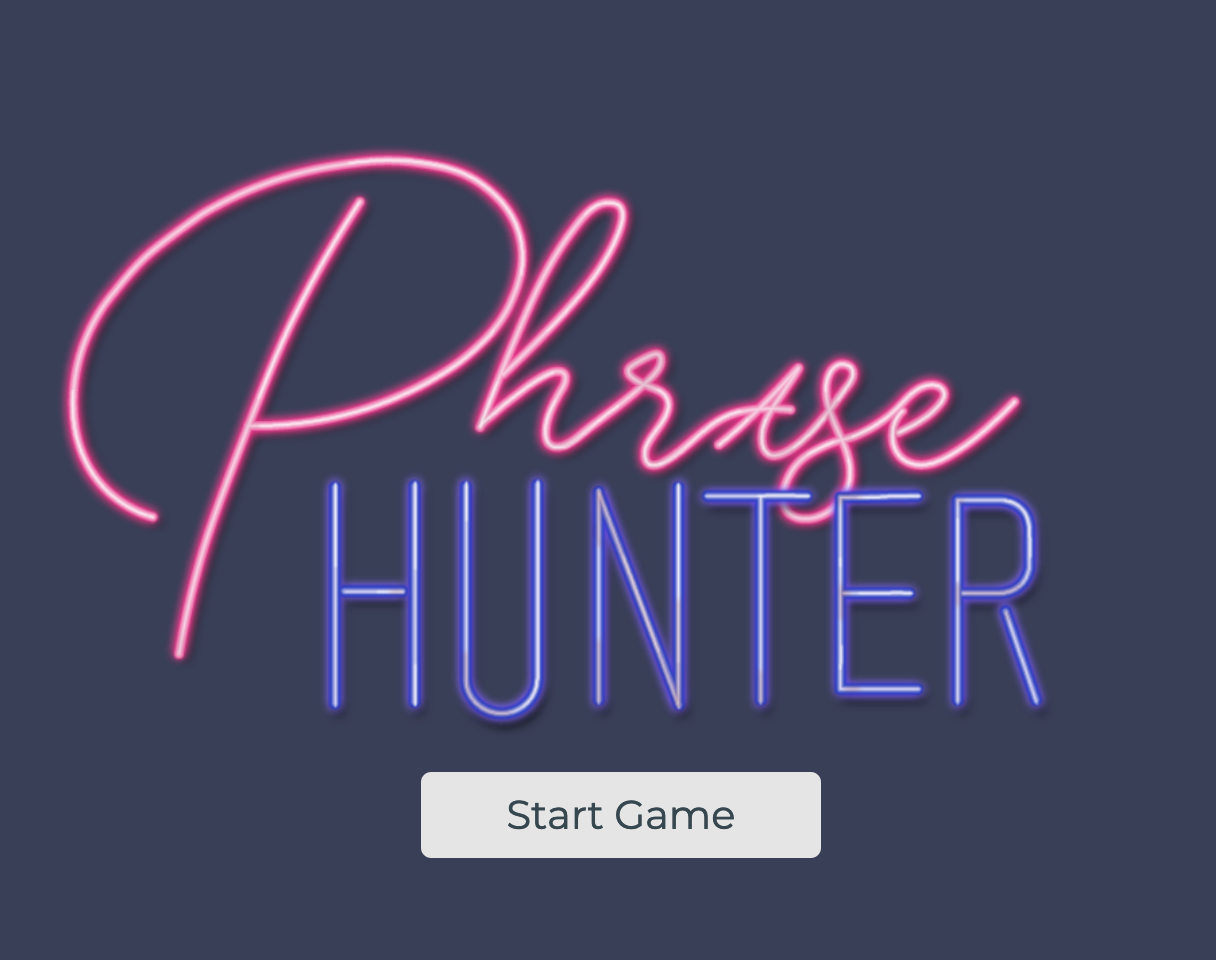
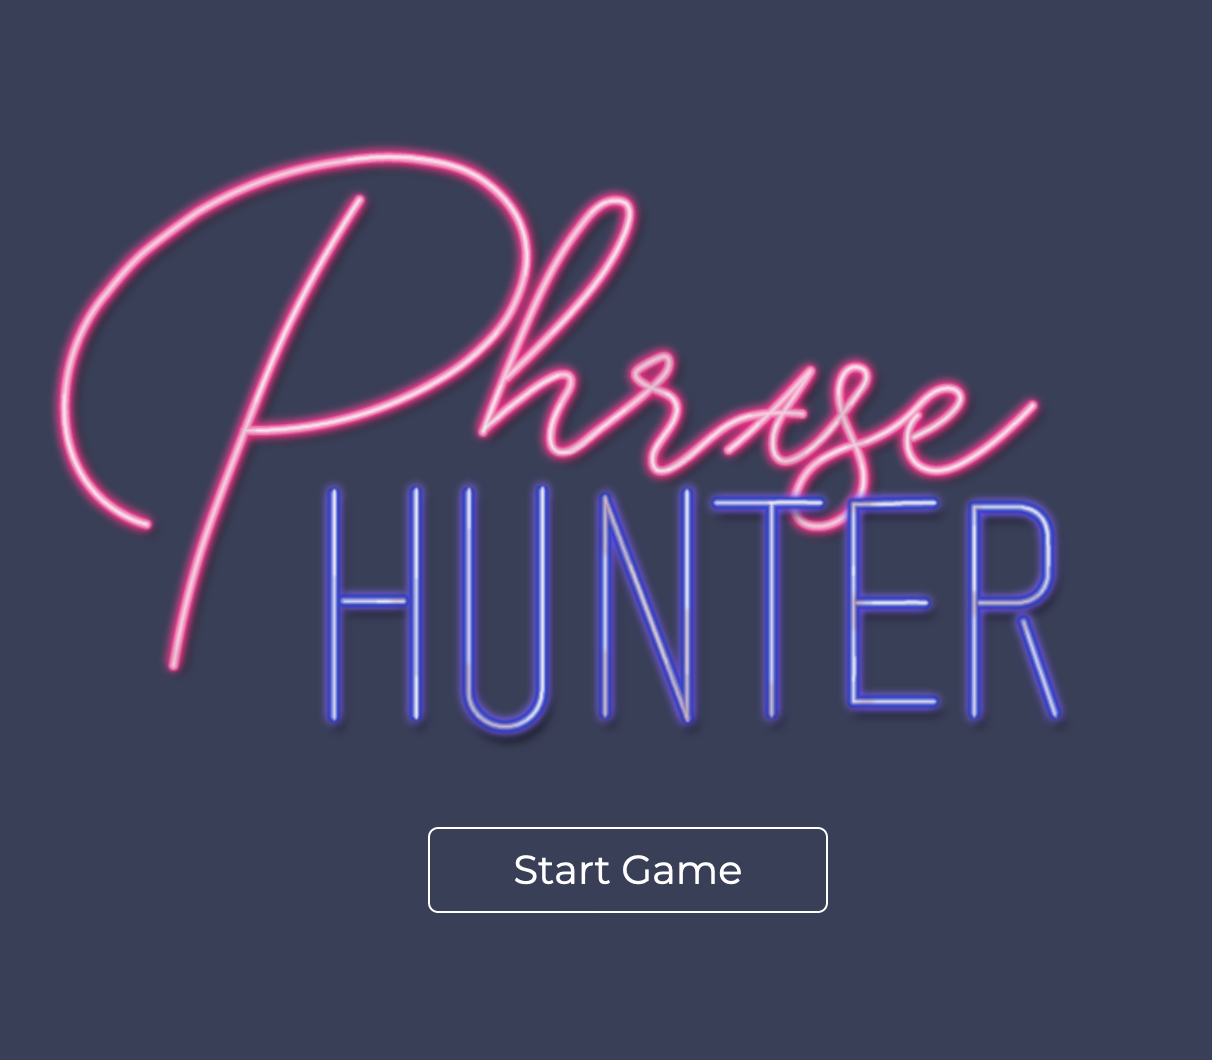
Button Change Added 'neon' CSS feature to button, simulates a neon effect on hover.

Changed region(s): [[0.0305, 0.125, 0.8853, 0.75], [0.3358, 0.7812, 0.7021, 0.9062]]

diff --git a/css/styles.css b/css/styles.css
@@ -65,7 +65,8 @@ button {
 
 #btn__reset {
 	width: 200px;
-	margin: 0 auto;
+  margin: 0 auto;
+  background-color: transparent;
 }
 
 .main-container {
@@ -89,7 +90,20 @@ button {
 #phrase ul li{
   margin-top: 15px;
 }
-
+.start-btn {
+  border-color: white;
+  background-color: transparent;
+  color: #fff;
+  
+  -webkit-transition: all 150ms ease-in-out;
+  transition: all 150ms ease-in-out;
+}
+.start-btn:hover {
+  background-color: transparent;
+  cursor: pointer;
+  border-color: #ffd2eb;
+  box-shadow: 0 0 10px 0 #EB3B95 inset, 0 0 10px 4px #F946A8;
+}
 /* Title */
 
 .header {
@@ -205,6 +219,9 @@ button {
 
 .lose {
   background-color: #f5785f;
+}
+#game-over-message{
+  margin-bottom: 20PX;
 }
 
 .lose a {

diff --git a/index.html b/index.html
@@ -19,7 +19,7 @@
 
 				<div class="start-game">
 					<h3 id="js-off">Enable Javascript to:</h3>
-					<button id="btn__reset">Start Game</button>
+					<button id="btn__reset" class="start-btn">Start Game</button>
 				</div>
 			</div>
 

diff --git a/README.md b/README.md
@@ -1,6 +1,6 @@
 # Phrase Hunter
 Created based on project from Teamtreehouse.com. 
-HTML slightly altered, existing CSS code altered by adding media queries and enhancing flexbox layout to work on mobile devices. 
+HTML slightly altered, existing CSS code altered by adding media queries and enhancing flexbox layout to work on mobile devices, as well as creating a 'neon' button. 
 Javascript created by me. 
 If you are also student and  working on this or a similar project, feel free to reach out to me with anyquestions about this code. I've made an effort to include helpful comments anddocumentation for fellow learners. 
 
